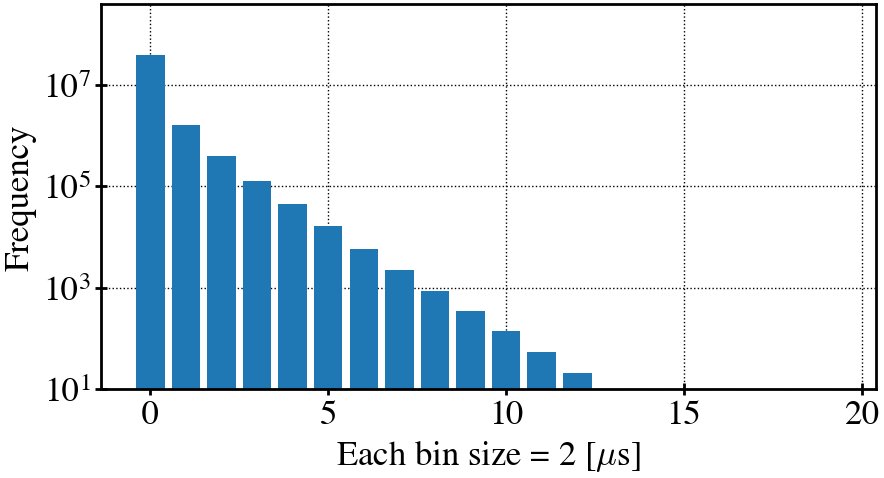
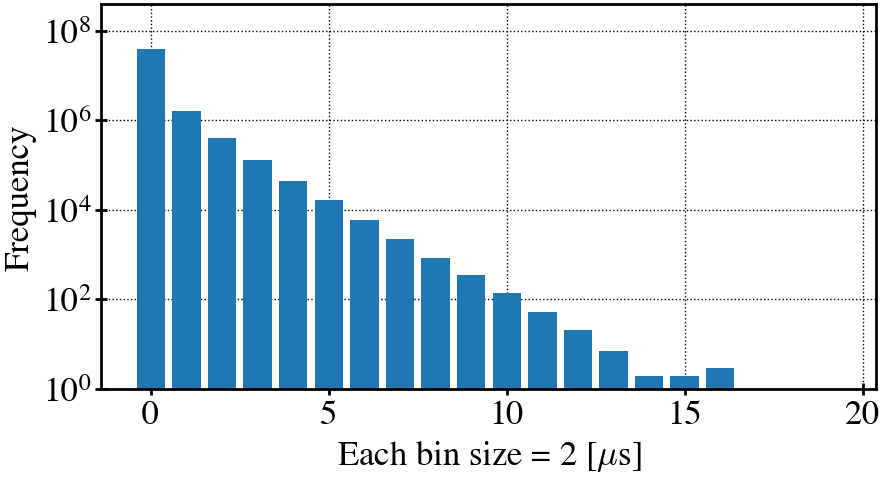
Change README, Makefile

diff --git a/plot1.py b/plot1.py
@@ -108,7 +108,7 @@ def FigBin():
         if args.log:
             plt.yscale('log')
             fig1.set_ylabel(r'Frequency', fontsize=25, math_fontfamily='cm')
-            fig1.set_ylim([10,y_max*10])
+            fig1.set_ylim([1,y_max*10])
             outfilename  = "./output/png/lastbin{}_{}powerlog.png".format(args.time, args.power)
         else:
             fig1.set_ylabel('Frequency', fontsize=25)

diff --git a/README.md b/README.md
@@ -28,13 +28,12 @@ source .venv/bin/activate
 bash make.sh (See bash file before run) 
 or
 ## make
-make POWEROF2=2 (Specify a single argument)
-make ARGS="./place/of/data.pcap 1 0 1" (Specify multi arguments)
-    -> ("filename of pcap" "observation time" "verbose" "power of 2")
+make exe POWEROF2=2 (Specify a single argument)
+make exe PCAP="./file.pcap" TIME=1 VERBOSE=0 POWEROF2=1 (Specify multi arguments)
 or
 ## cmake
-./build/main_pkt "filename of pcap" "observation time" "verbose" "power of 2"
-python plot1.py -t "observation time" -v "verbose" -p "power" --log
+./build/main_pkt PCAP="./file.pcap" TIME=1 VERBOSE=0 POWEROF2=1
+python plot1.py -t 1 -v 0 -p 1 --log
 ```
 
 3. Clean up env with:
